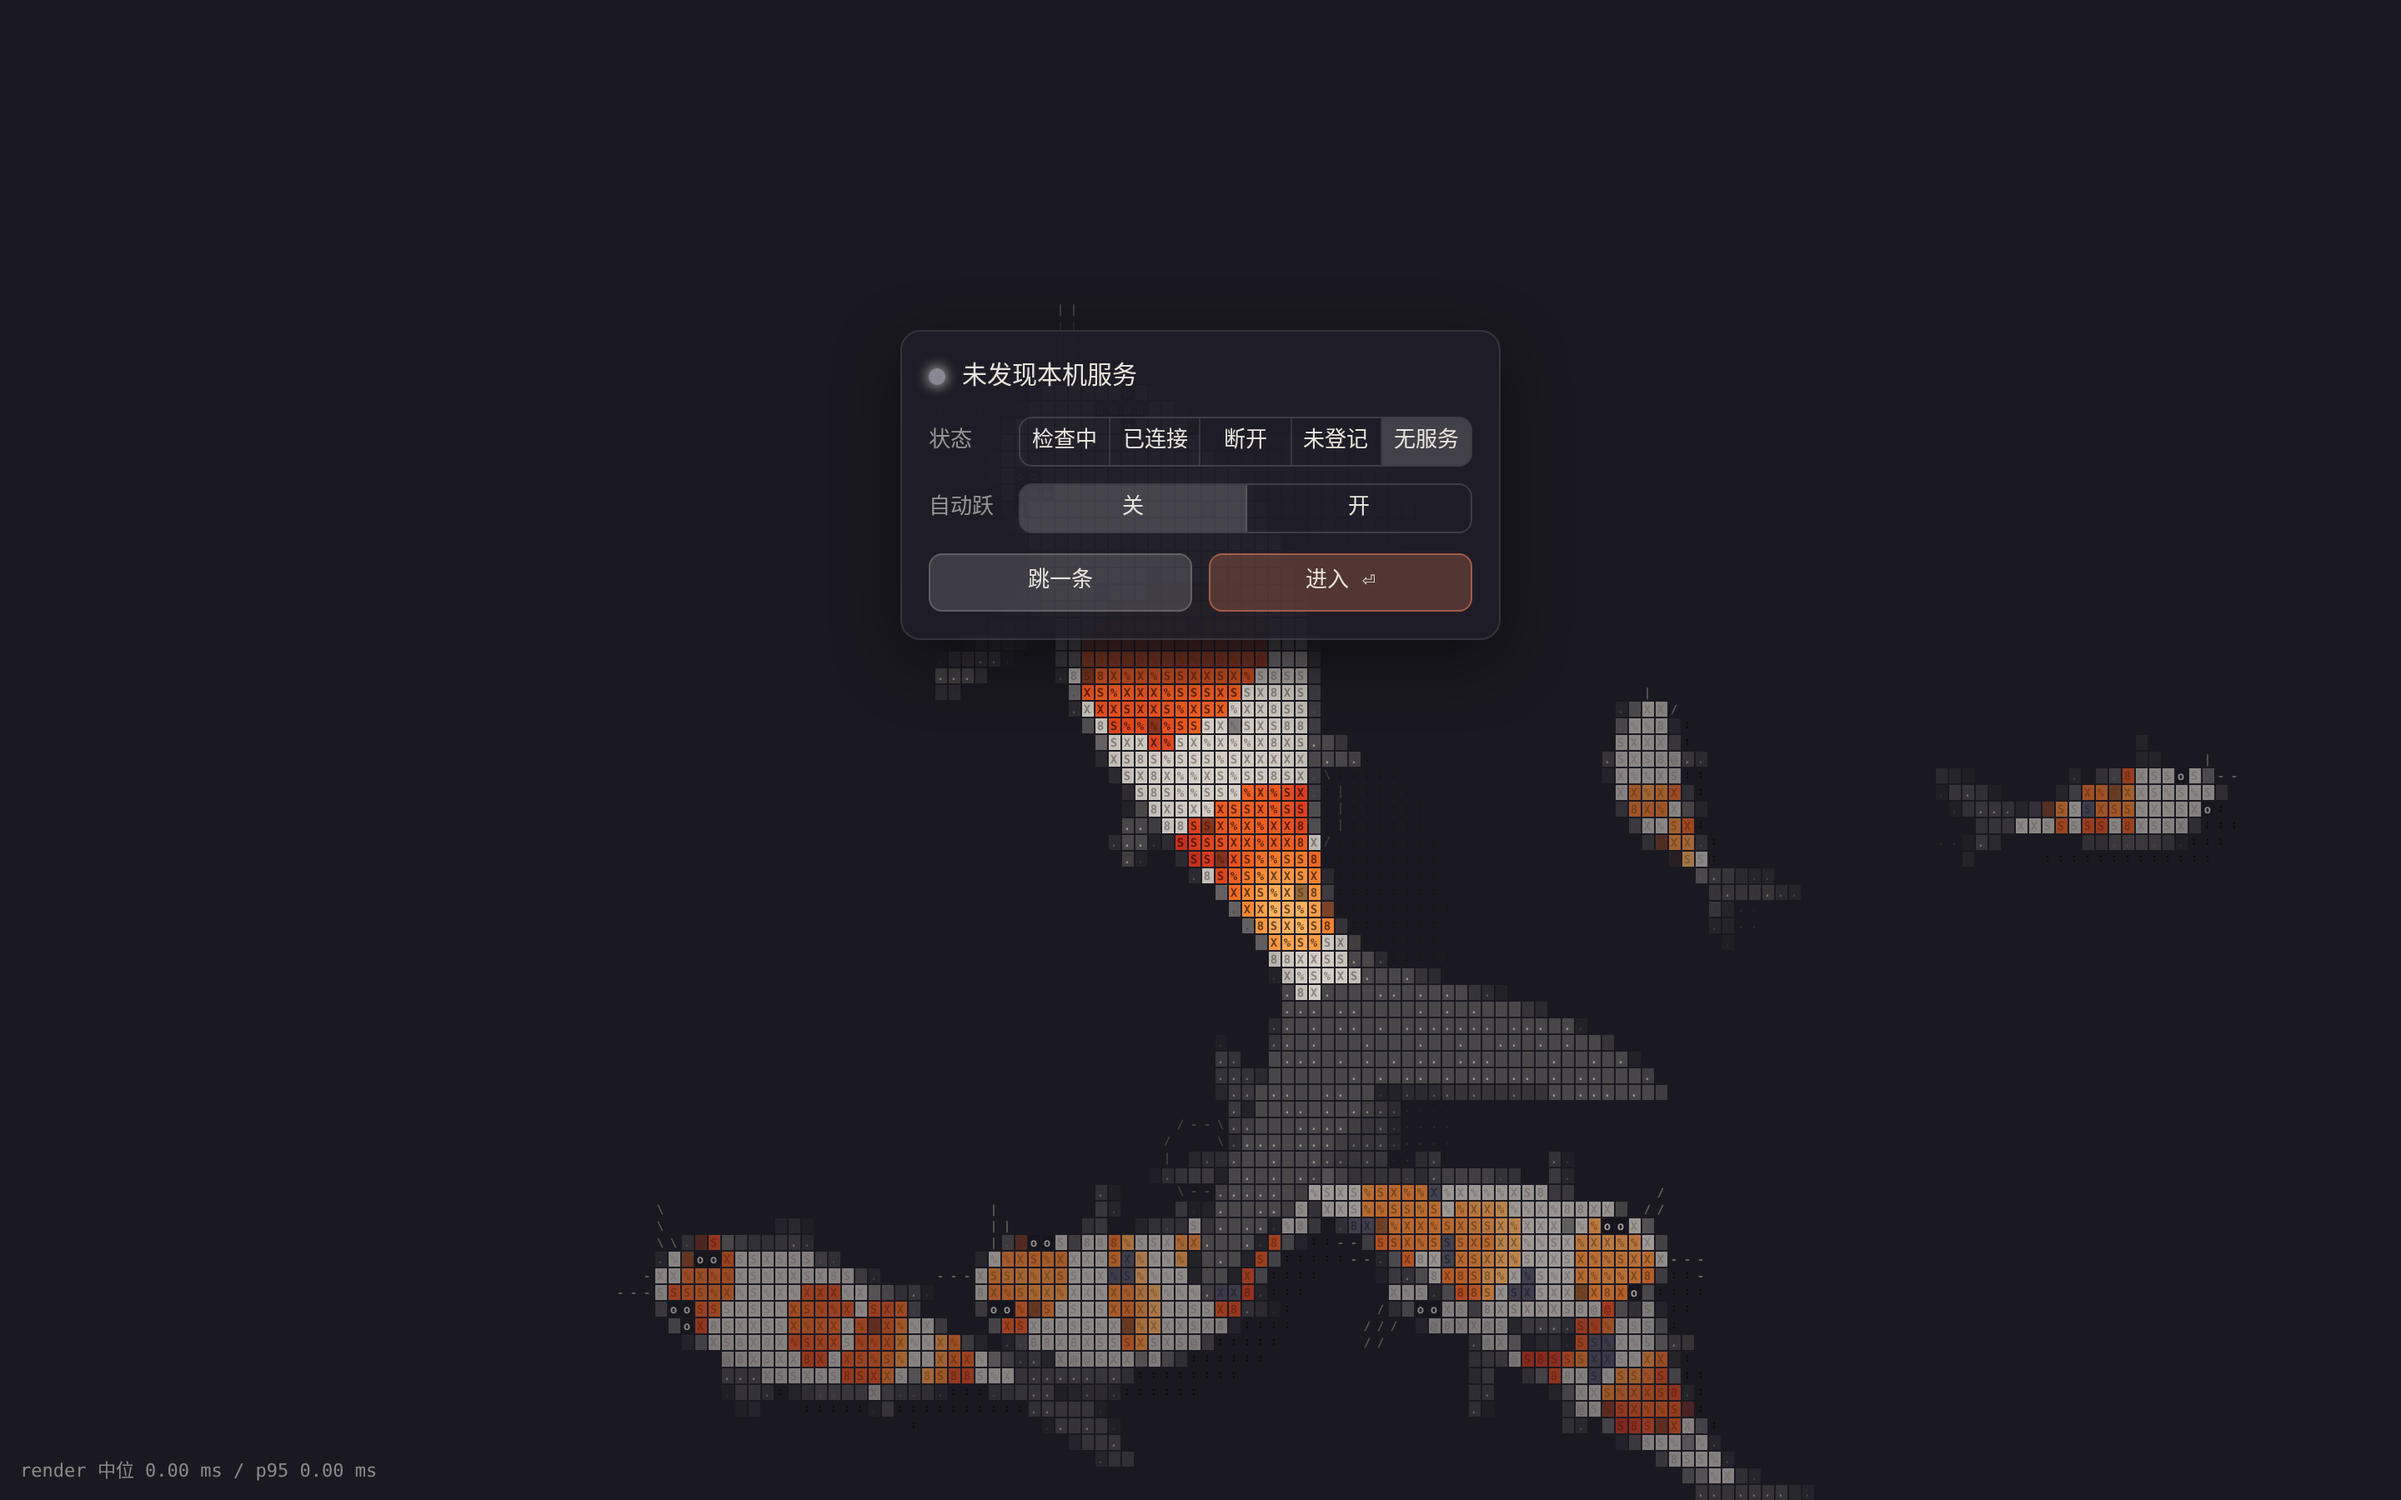
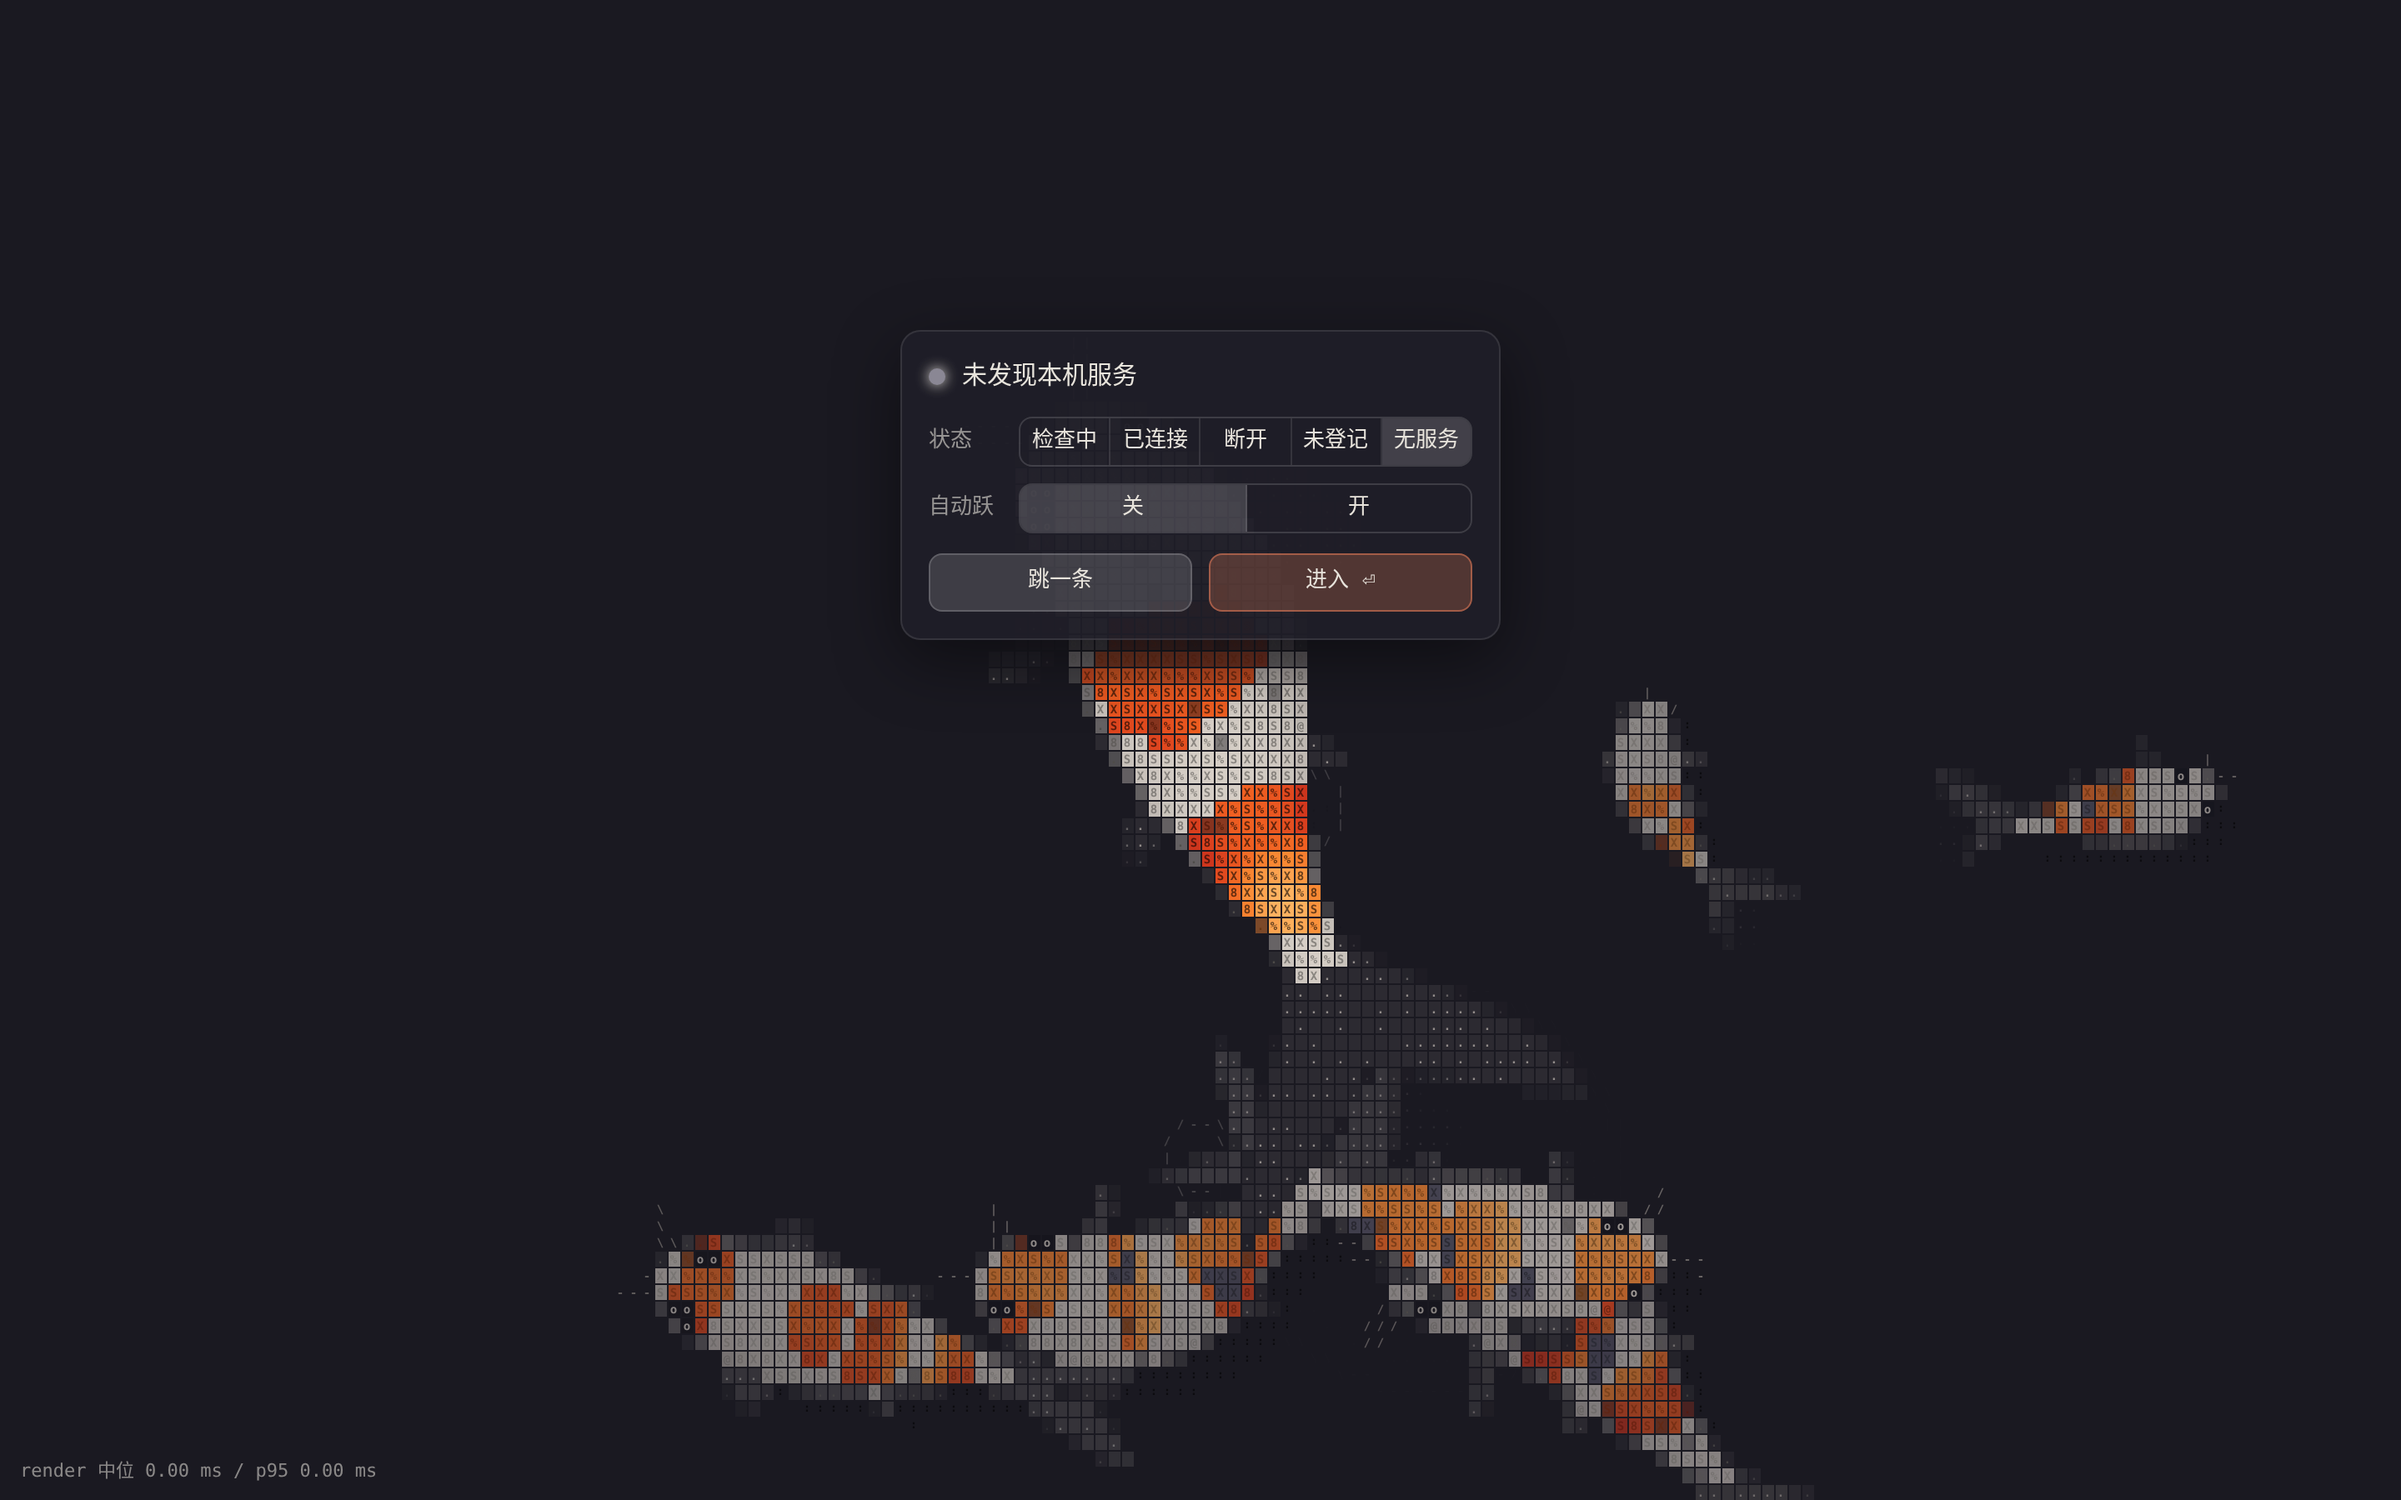
fix(koi-pond): lighter leap shadow, smaller leap scale, thinner fins in the air
The leap shadow is now sparse faint specks (mostly '.', a few ':', alpha capped at 0.35 and fading
with height) on empty cells only, scaled 1-0.35h and shifted down-right by 0.14 body lengths at
the top (measured centroid offset 0.11-0.22). Leap scale is 1+0.25h. The big grey slab under the
leaping koi was its own tail and pectoral fins at full flare with full-brightness tiles: fins now
open to 1.2 instead of 1.5 and their tile veil thins as the koi climbs. Nothing changes without a leap.

Claude-Session: https://claude.ai/code/session_016wnpH7s2GBC7PRqcpR3Nqb

Changed region(s): [[0.4375, 0.4356, 0.6875, 0.8711], [0.375, 0.4356, 0.4062, 0.4667]]

diff --git a/src/app/components/koi-pond/renderer.ts b/src/app/components/koi-pond/renderer.ts
@@ -26,8 +26,11 @@ import {
 
 export type Rgb = [number, number, number];
 
-/** The widest the fins can be flared by the usual swimming: a full spread, scull and bank together. */
-const MAX_FLARE = 1.5;
+/** How far, as a fraction of body length at full height, a leaping koi's shadow sits down and right of its body. */
+const SHADOW_SHIFT = 0.14;
+
+/** How far a leaping koi throws its fins open: wide, but not the full spread, which would swallow the frame. */
+const LEAP_FLARE = 1.2;
 
 // How visible a koi stays while it swims under page content.
 const DIM_UNDER_CONTENT = 0.15;
@@ -573,7 +576,7 @@ export class KoiRenderer {
         const h = leap ? leapHeight(leap.age) : 0;
         const bend = u < 0.4 ? smoothstep(0, 0.4, u) : 1 - smoothstep(0.4, 1, u);
         const bow = leap ? leap.side * k.length * 0.1 * bend : 0;
-        const scale = shadowOnly ? 1 - 0.25 * h : 1 + 0.35 * h;
+        const scale = shadowOnly ? 1 - 0.35 * h : 1 + 0.25 * h;
         const L0 = k.length;
         const L = L0 * scale;
         const nodes = k.nodes;
@@ -607,7 +610,7 @@ export class KoiRenderer {
         }
         if (shadowOnly) {
             // The shadow stays down on the water while the body rises, so it slides away from the body.
-            const away = (0.25 * L0 * h) / Math.SQRT2;
+            const away = (SHADOW_SHIFT * L0 * h) / Math.SQRT2;
             for (let n = 0; n < KOI_NODES; n++) {
                 spine[n * 2] += away;
                 spine[n * 2 + 1] += away;
@@ -628,8 +631,8 @@ export class KoiRenderer {
         if (leap) {
             // Fins thrown fully open while the koi is in the air.
             const open = Math.min(1, h * 1.6);
-            this.flareLeft += (MAX_FLARE - this.flareLeft) * open;
-            this.flareRight += (MAX_FLARE - this.flareRight) * open;
+            this.flareLeft += (LEAP_FLARE - this.flareLeft) * open;
+            this.flareRight += (LEAP_FLARE - this.flareRight) * open;
         }
 
         let minX = Infinity;
@@ -723,11 +726,8 @@ export class KoiRenderer {
                 const solid = centerHit && coverage >= 0.6;
                 if (shadowOnly) {
                     const skinCell = flag !== FLAG_BARBEL && flag !== FLAG_FIN && !(flag === FLAG_EYE && solid);
-                    const sc = c + shadowDc;
-                    const sr = r + shadowDr;
-                    if (skinCell && hits === 5 && sc < cols && sr < rows) {
-                        this.cellShadowLeap[sr * cols + sc] = Math.round(255 * (1 - 0.6 * h));
-                    }
+                    // The shadow's own offset is already in the spine, so it lands on the cell it was sampled in.
+                    if (skinCell && hits === 5) this.cellShadowLeap[r * cols + c] = Math.round(255 * (1 - 0.7 * h));
                     continue;
                 }
 
@@ -748,7 +748,8 @@ export class KoiRenderer {
                 } else if (flag === FLAG_FIN) {
                     // Fins are a pale veil of tiles flecked with dots, so they never compete with the body.
                     tile = mix(palette.bg, palette.fin, 0.55);
-                    tileAlpha = dim * 0.45 * coverage;
+                    // Lit to full in the air, a fin veil would turn into a solid slab, so it is thinned as the koi climbs.
+                    tileAlpha = dim * 0.45 * coverage * (1 - 0.6 * h);
                     // Rays run from the root outward: body-space (du along the spine, da away from it) in screen space.
                     const ray = () => lineGlyph(finDu * tx - finDa * side * ty, finDu * ty + finDa * side * tx);
                     if (ink) {
@@ -904,9 +905,11 @@ export class KoiRenderer {
         }
         for (let i = 0; i < cellShadowLeap.length; i++) {
             if (!cellShadowLeap[i] || cellShadow[i] || cellGlyph[i]) continue;
-            const fade = (cellShadowLeap[i] / 255) * palette.shadowAlpha * cellDim[i];
-            if (this.art.halo) this.glyphAt(i, ":", palette.shadow, fade);
-            else this.glyphAt(i, ".", palette.shadow, fade * 0.5);
+            // Sparse, faint specks rather than a block: mostly `.`, a few `:`, at most 0.35 opaque, fading as the koi climbs.
+            const pick = hash3(i, 3, 29);
+            if (pick > 0.5) continue;
+            const alpha = (cellShadowLeap[i] / 255) * Math.min(0.35, palette.shadowAlpha) * cellDim[i];
+            this.glyphAt(i, pick < 0.07 ? ":" : ".", palette.shadow, alpha);
         }
     }
 
